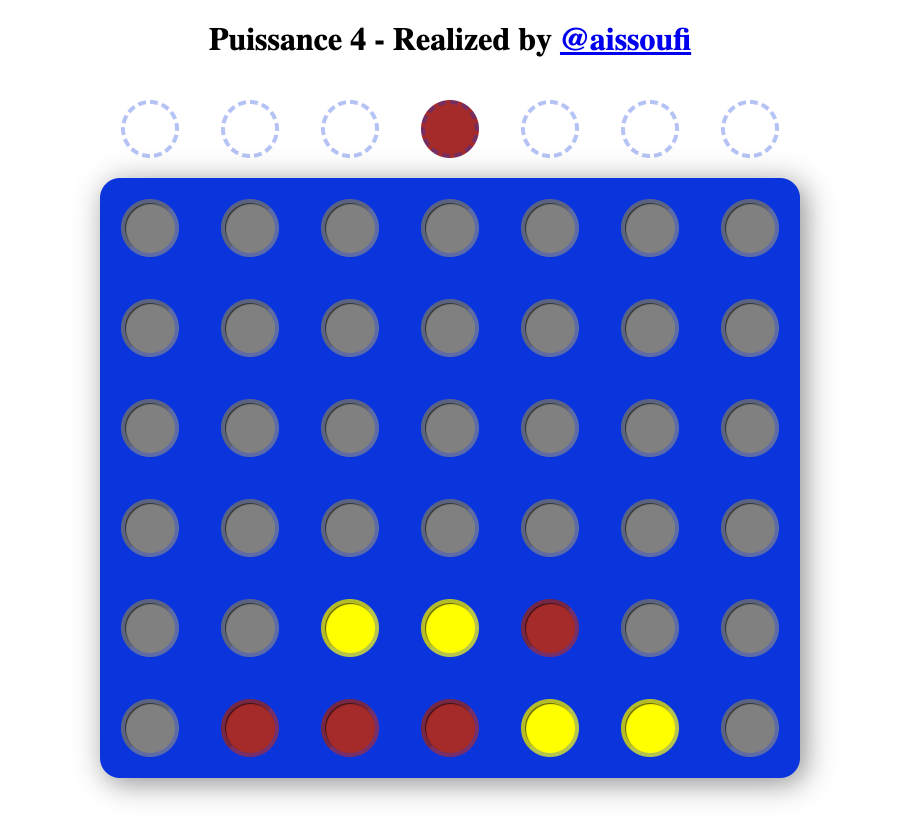
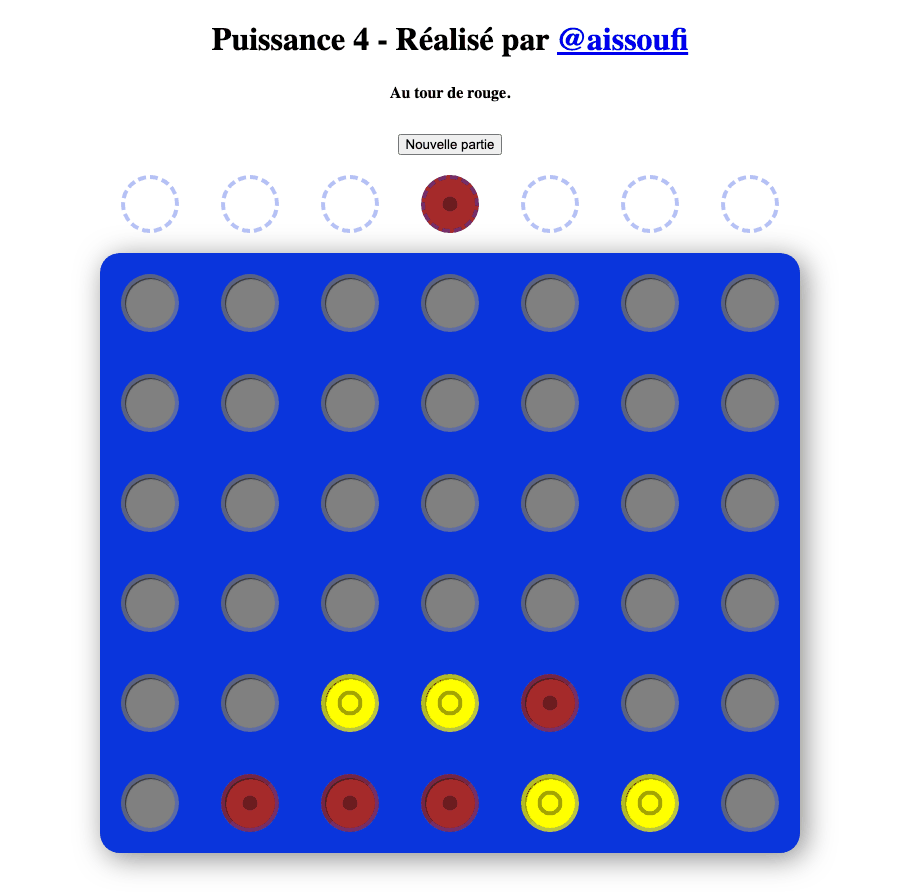
docs: show whose turn it is and the New game button in the screenshot
docs/screenshot.png is taken again at 1280 px, on the page of #14 and #16: whose turn it is,
the Nouvelle partie button, the preview of the hovered column and the markers of the tokens. A
palette of 128 colors keeps it at 21 858 bytes, against 50 605 before.

Refs: C4-16

diff --git a/README.md b/README.md
@@ -6,7 +6,7 @@ Cloudflare Worker.
 - Play it: <https://connect-four.issoufi.fr>
 - API docs: <https://connect-four.issoufi.fr/api/v1/>
 
-![A game in progress: red and yellow tokens on the blue board, with the row of columns to play above it](docs/screenshot.png)
+![A game in progress: whose turn it is and the Nouvelle partie button above the row of columns to play, then red tokens marked with a dot and yellow tokens marked with a ring on the blue board](docs/screenshot.png)
 
 ## How to play
 
